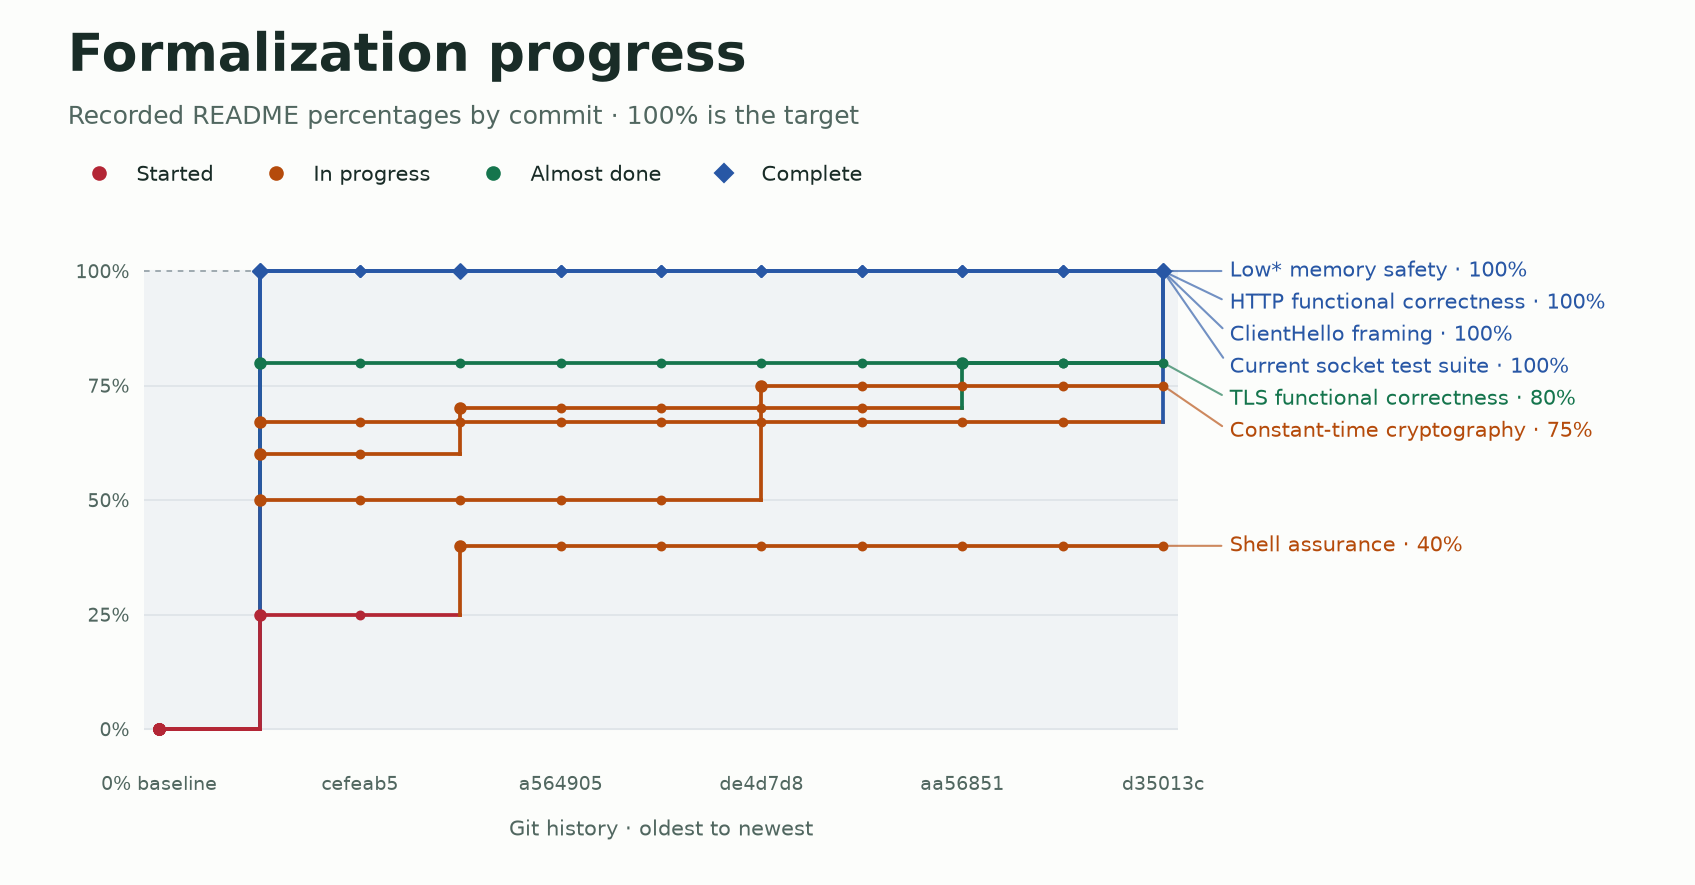
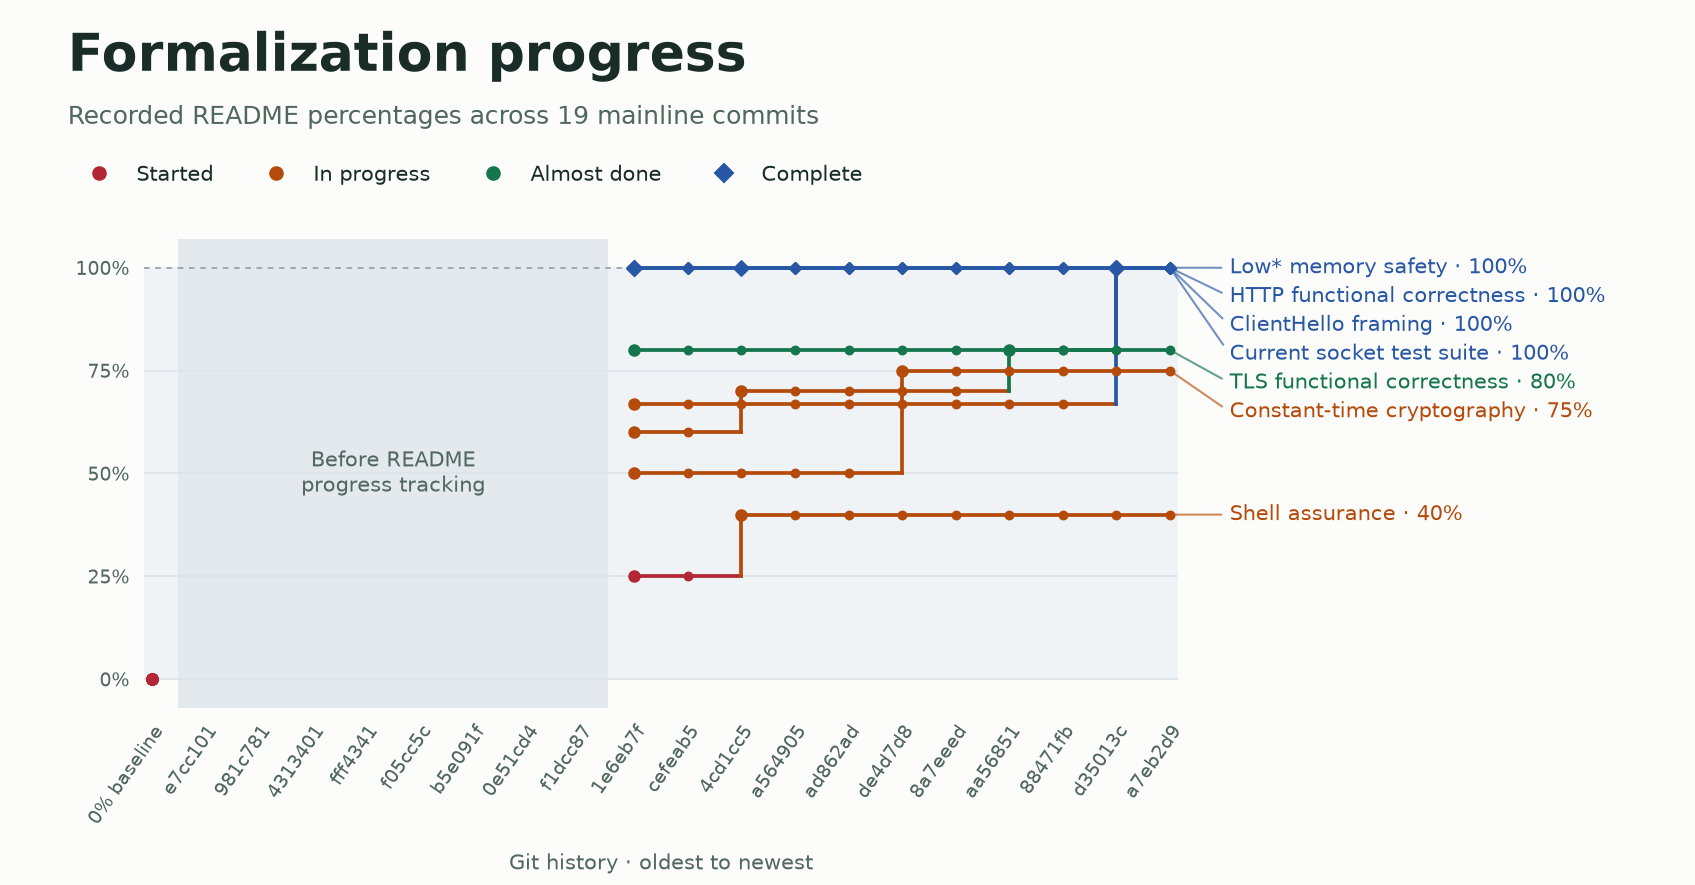
Show all mainline commits in the progress chart

diff --git a/tools/plot_progress.py b/tools/plot_progress.py
@@ -2,7 +2,6 @@
 """Plot the README's recorded formalization progress from Git history."""
 
 import argparse
-import math
 import re
 import subprocess
 from pathlib import Path
@@ -61,8 +60,6 @@ def history(*, committed_only=False):
             rows = {}
         snapshots.append((commit[:7], rows))
 
-    first = next((i for i, (_, rows) in enumerate(snapshots) if rows), len(snapshots))
-    snapshots = snapshots[first:]
     if not committed_only:
         working_tree = progress((ROOT / "README.md").read_text(encoding="utf-8"))
         if not snapshots or working_tree != snapshots[-1][1]:
@@ -78,9 +75,11 @@ def draw(snapshots, output):
     revisions, rows = zip(("0% baseline", baseline), *snapshots)
 
     figure, axis = plt.subplots(figsize=(11.3, 5.9), facecolor=PAPER)
-    figure.subplots_adjust(left=0.085, right=0.695, bottom=0.14, top=0.73)
+    figure.subplots_adjust(left=0.085, right=0.695, bottom=0.20, top=0.73)
     figure.text(0.04, 0.92, "Formalization progress", fontsize=25, weight="bold", color=INK)
-    figure.text(0.04, 0.86, "Recorded README percentages by commit · 100% is the target", fontsize=12, color=MUTED)
+    commit_count = len(snapshots) - (snapshots[-1][0] == "Working tree")
+    figure.text(0.04, 0.86, f"Recorded README percentages across {commit_count} mainline commits",
+                fontsize=12, color=MUTED)
     handles = [
         Line2D([], [], color=color, marker=marker, linestyle="none", label=name)
         for name, color, marker in STATUS_STYLES.values()
@@ -94,6 +93,12 @@ def draw(snapshots, output):
     axis.axhline(100, color="#9ba7ad", linestyle=(0, (3, 3)), linewidth=0.9)
     for percent in (0, 25, 50, 75):
         axis.axhline(percent, color="#dde3e7", linewidth=0.8)
+
+    first_recorded = next(i for i, snapshot in enumerate(rows[1:], start=1) if snapshot)
+    if first_recorded > 1:
+        axis.axvspan(0.5, first_recorded - 0.5, color="#e4e9ed", zorder=0)
+        axis.text(first_recorded / 2, 50, "Before README\nprogress tracking", ha="center",
+                  va="center", color=MUTED, fontsize=10)
 
     for label in latest:
         for i, (revision, snapshot) in enumerate(zip(revisions, rows)):
@@ -127,12 +132,11 @@ def draw(snapshots, output):
             arrowprops={"arrowstyle": "-", "color": color, "linewidth": 1, "alpha": 0.65, "relpos": (0, 0.5)},
         )
 
-    stride = max(1, math.ceil(last / 9))
-    ticks = [*range(0, last - stride + 1, stride), last]
     axis.set_xlim(-0.15, len(revisions) - 0.85)
     levels = [0, 25, 50, 75, 100]
     axis.set_yticks(levels, labels=[f"{level}%" for level in levels])
-    axis.set_xticks(ticks, labels=[revisions[i] for i in ticks])
+    axis.set_xticks(range(len(revisions)), labels=revisions, rotation=55, ha="right",
+                    rotation_mode="anchor")
     axis.tick_params(axis="both", length=0, labelsize=9, colors=MUTED, pad=7)
     axis.spines[:].set_visible(False)
     axis.set_xlabel("Git history · oldest to newest", color=MUTED, fontsize=10, labelpad=12)

diff --git a/README.md b/README.md
@@ -28,7 +28,7 @@ In-process fuzzing checks output bounds across 400,000 HTTP and 100,000 TLS inpu
 
 ![Seven formalization metrics on one chart, with a red 0% baseline and markers colored by README status](docs/progress.png)
 
-The red 0% baseline is a starting reference. Each commit uses the percentage and status recorded in its README, beginning with the first progress table. Blue diamonds mark completed areas. Hollow markers show working-tree values when included. The Rust migration expanded the shell roadmap from four to five milestones. Regenerate the published view with `python3 tools/plot_progress.py --committed-only` using Matplotlib.
+The chart labels every mainline commit in the snapshot. The shaded region marks commits before the README tracked progress. The separate red 0% baseline is a visual reference. Blue diamonds mark completed areas. Hollow markers show working-tree values when included. The Rust migration expanded the shell roadmap from four to five milestones. Regenerate the published view with `python3 tools/plot_progress.py --committed-only` using Matplotlib.
 
 ## Defense in depth
 
